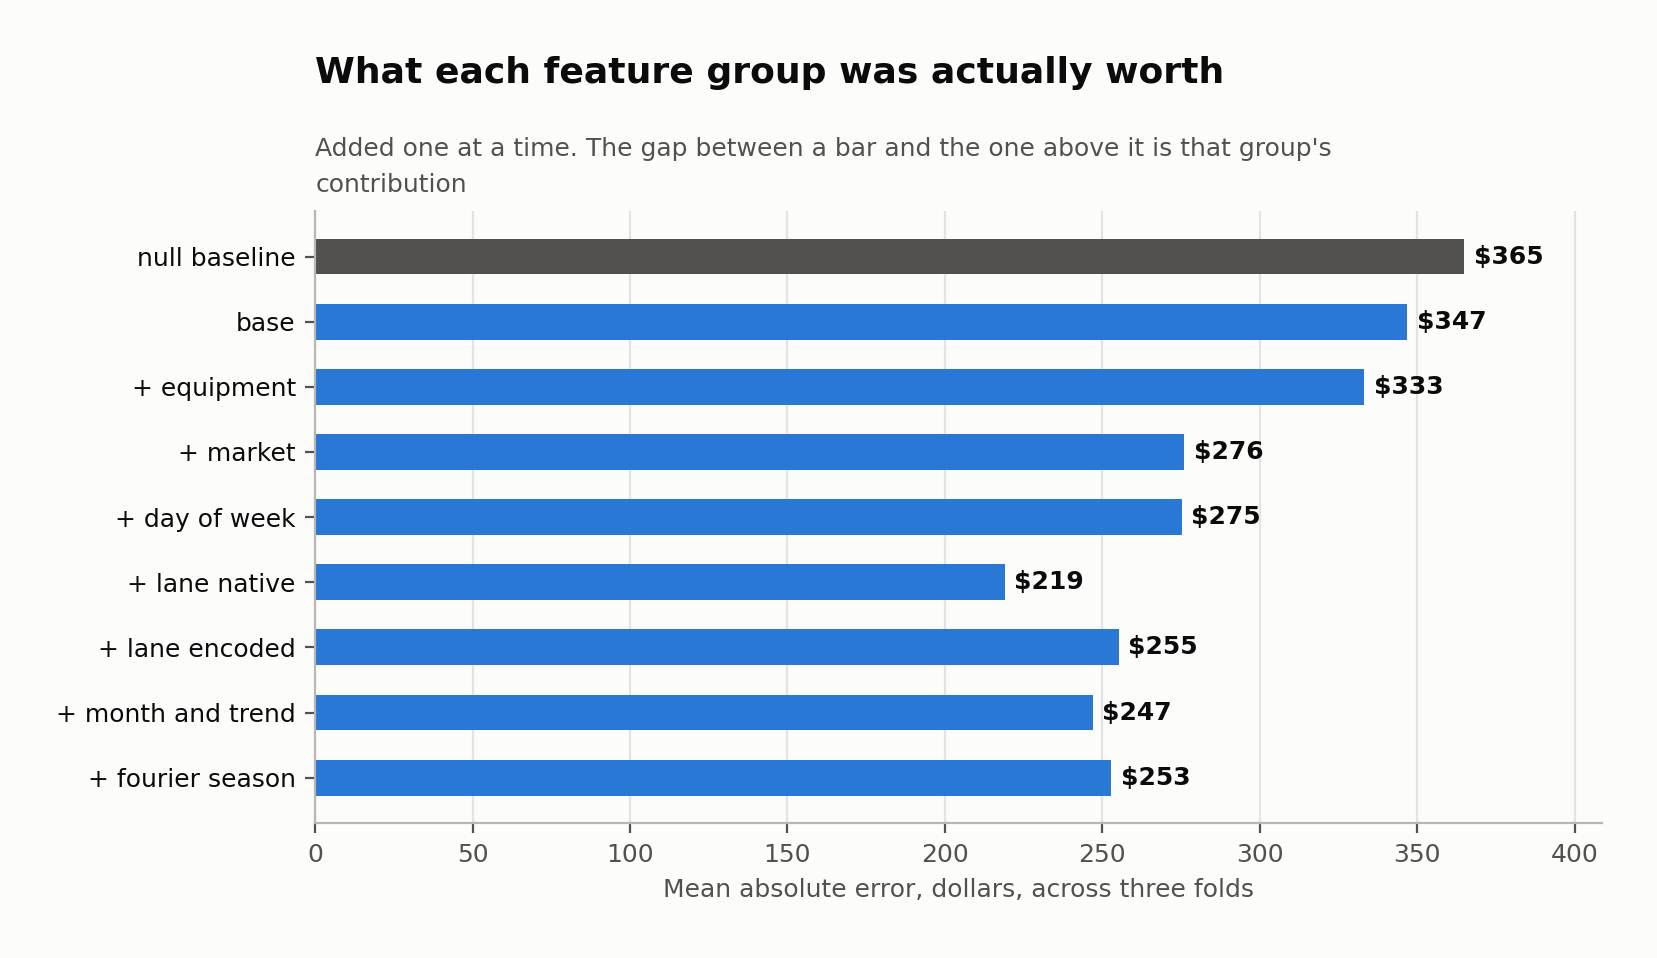
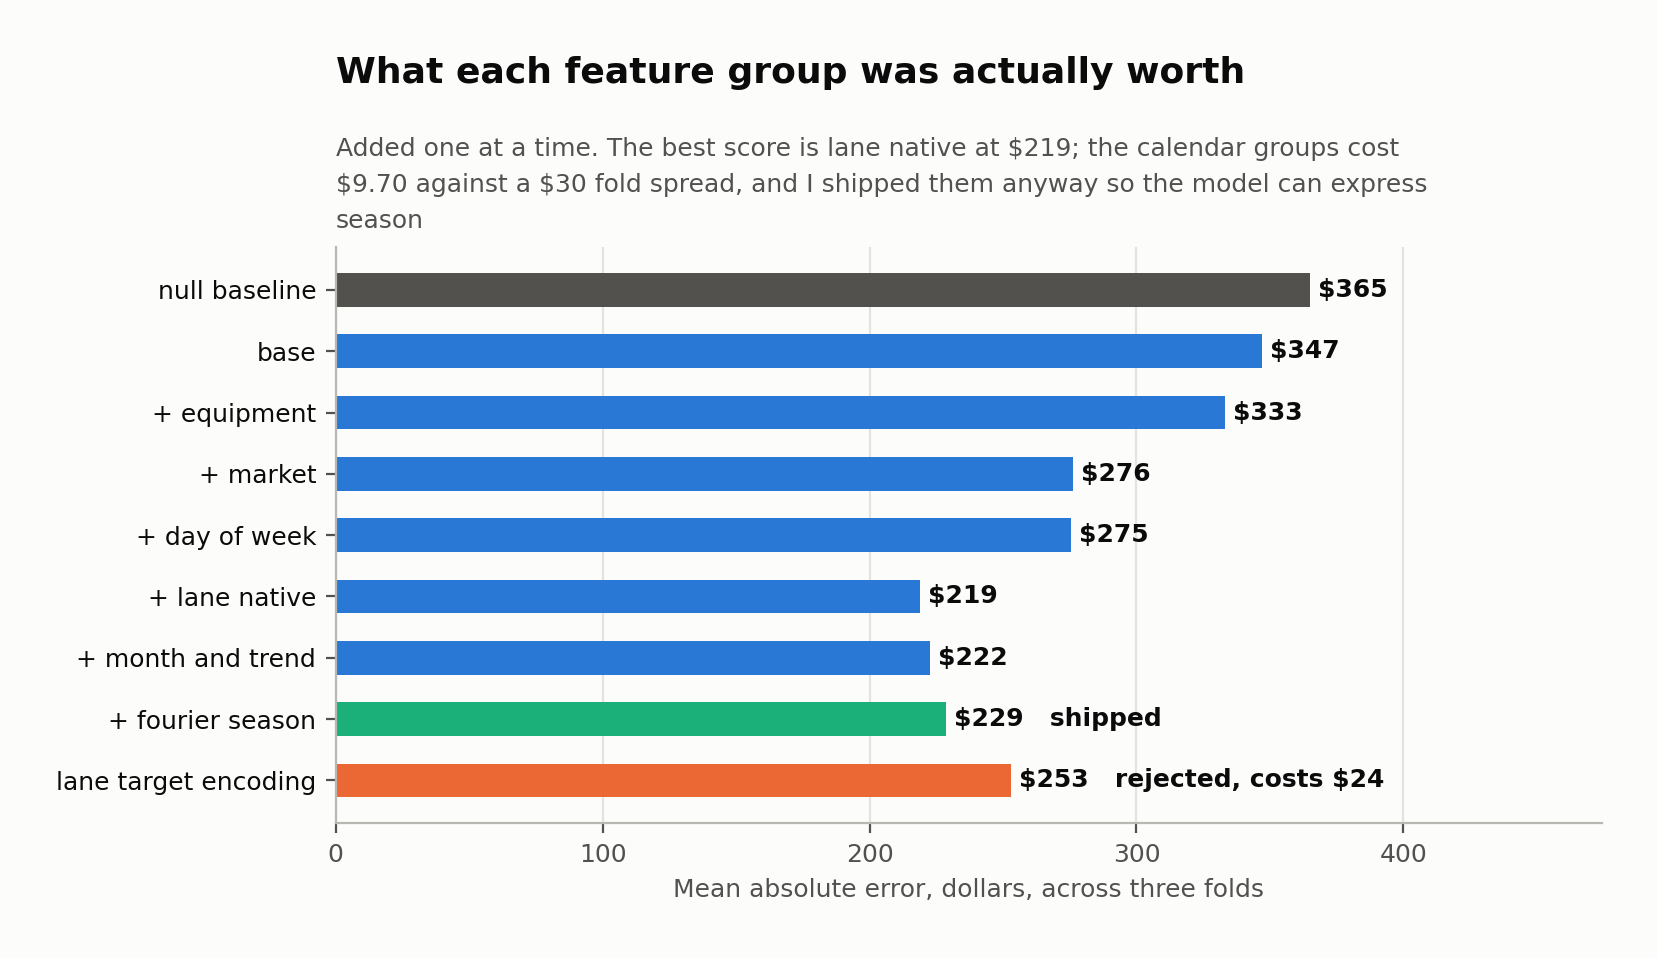
fix: derive ablation chart from ABLATION, disable mathtext, dynamic inflated share

diff --git a/make_charts.py b/make_charts.py
@@ -26,6 +26,9 @@ plt.rcParams.update({
     "axes.edgecolor": "#b8b7b2", "axes.labelcolor": MUTED,
     "xtick.color": MUTED, "ytick.color": MUTED,
     "axes.spines.top": False, "axes.spines.right": False,
+    # Dollar signs are data here, not maths. Without this, a string containing
+    # two of them gets parsed as LaTeX and rendered as italic nonsense.
+    "text.parse_math": False,
 })
 
 
@@ -119,30 +122,42 @@ def fig_split(train):
 # --- 3. ablation -----------------------------------------------------------
 
 def fig_ablation(abl):
-    order = ["base", "+ equipment", "+ market", "+ day of week", "+ lane native",
-             "+ lane encoded", "+ month and trend", "+ fourier season"]
-    m = (abl[abl.model.isin(order + ["null (median rpm)"])]
-         .groupby("model", sort=False).mae.mean())
-    labels = ["null baseline"] + order
-    values = [m["null (median rpm)"]] + [m[o] for o in order]
+    """The ladder, taken from model.ABLATION so it cannot drift out of step."""
+    from src import model as M
+
+    order = list(M.ABLATION)
+    labels = ["null baseline"] + order + ["lane target encoding"]
+    means = abl.groupby("model", sort=False).mae.mean()
+    values = ([means["null (median rpm)"]] + [means[o] for o in order]
+              + [means["rejected: lane target encoding"]])
+
+    colours = [MUTED] + [BLUE] * len(order) + [ORANGE]
+    colours[1 + order.index(M.SELECTED_LABEL)] = AQUA
+
     fig, ax = plt.subplots()
     y = np.arange(len(labels))[::-1]
-    ax.barh(y, values, height=0.55, color=[MUTED] + [BLUE] * len(order))
-    for yi, v in zip(y, values):
-        ax.text(v + 3, yi, f"${v:,.0f}", va="center", fontsize=9,
+    ax.barh(y, values, height=0.55, color=colours)
+    for yi, v, lab in zip(y, values, labels):
+        note = ""
+        if lab == M.SELECTED_LABEL:
+            note = "   shipped"
+        elif lab == "lane target encoding":
+            note = "   rejected, costs $24"
+        ax.text(v + 3, yi, f"${v:,.0f}{note}", va="center", fontsize=9,
                 color=INK, fontweight="bold")
     ax.set_yticks(y); ax.set_yticklabels(labels, fontsize=9, color=INK)
     ax.set_xlabel("Mean absolute error, dollars, across three folds")
-    ax.set_xlim(0, max(values) * 1.12)
+    ax.set_xlim(0, max(values) * 1.30)
     frame(ax, "What each feature group was actually worth",
-          "Added one at a time. The gap between a bar and the one above it is that group's contribution")
+          "Added one at a time. The best score is lane native at $219; the calendar groups cost "
+          "$9.70 against a $30 fold spread, and I shipped them anyway so the model can express season")
     ax.grid(axis="y", visible=False); ax.grid(axis="x", color=GRID, linewidth=0.8)
     save(fig, "03_ablation.png")
 
 
 # --- 4. the error floor ----------------------------------------------------
 
-def fig_floor(abl):
+def fig_floor(abl, inflated_pct):
     g = abl.groupby("model")[["mae", "mae_clean"]].mean()
     null, best = g.loc["null (median rpm)"], g.loc["+ fourier season"]
     fig, ax = plt.subplots()
@@ -163,7 +178,7 @@ def fig_floor(abl):
     ax.set_xlabel("Mean absolute error, dollars")
     pct = floor[1] / (reducible[1] + floor[1]) * 100
     frame(ax, "Part of the error was never reachable",
-          f"0.64% of loads are inflated at random. They contribute about the same dollars "
+          f"{inflated_pct:.2f}% of loads are inflated at random. They contribute about the same dollars "
           f"to the baseline and to the tuned model, and are {pct:.0f}% of what is left")
     ax.grid(axis="y", visible=False); ax.grid(axis="x", color=GRID, linewidth=0.8)
     ax.set_ylim(-0.55, 1.55)
@@ -204,7 +219,9 @@ def main():
     FIG.mkdir(parents=True, exist_ok=True)
     train = D.repair_weight(D.load_train())
     abl = pd.read_csv(C.RESULTS_DIR / "ablation_scores.csv")
-    fig_target(train); fig_split(train); fig_ablation(abl); fig_floor(abl); fig_december()
+    fig_target(train); fig_split(train); fig_ablation(abl)
+    fig_floor(abl, D.flag_inflated(train).mean() * 100)
+    fig_december()
 
 
 if __name__ == "__main__":
